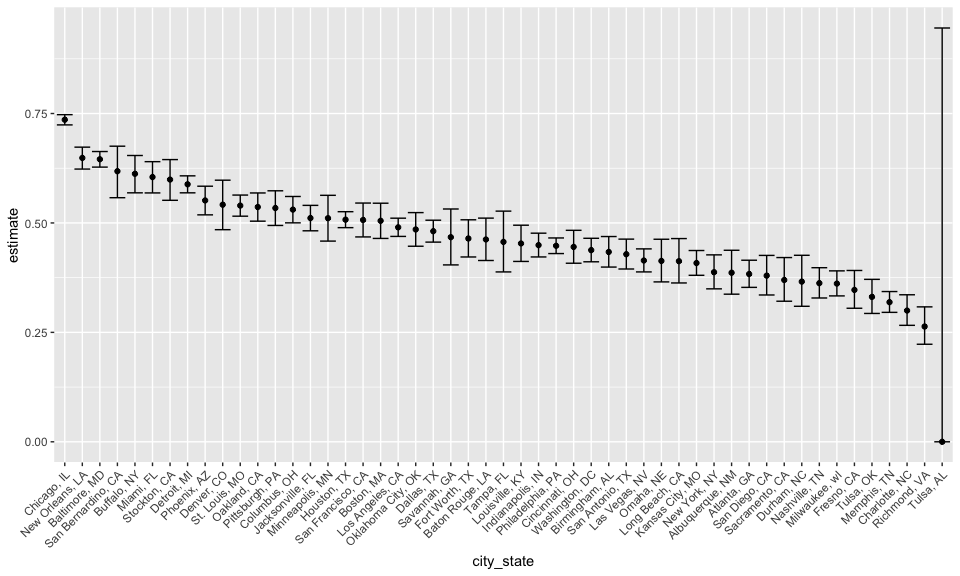
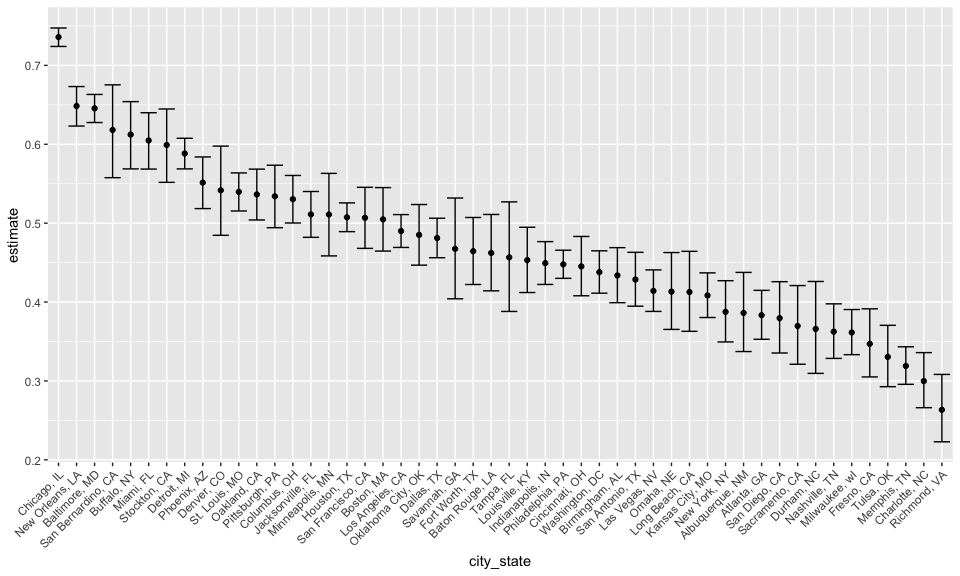
some changes 4

diff --git a/p8105_hw5_xl2836.md b/p8105_hw5_xl2836.md
@@ -93,9 +93,12 @@ Problem Two
 Tidied data
 -----------
 
+First, I create a `city_state` variable by combining `city` and `state`. As there is only one record about "Tulsa, AL", I think it infact happened in "Tulsa, OK" but recorded as "Tulsa, AL" mistakenly, so I changed it to "Tulsa, OK".
+
 ``` r
 homicide_df = read_csv("homicide-data.csv") %>% 
-  mutate(city_state = str_c(city, ", ", state))
+  mutate(city_state = str_c(city, ", ", state)) %>% 
+  mutate(city_state = str_replace(city_state, "Tulsa, AL", "Tulsa, OK"))
 ```
 
     ## Parsed with column specification:
@@ -202,7 +205,6 @@ prop_Baltimore %>%
 ``` r
 city_homicides = left_join(city_total_homicides, city_unsolved_homicides, by = "city_state")
   
-
 city_homicides[is.na(city_homicides)] = 0
 ```
 
@@ -213,18 +215,13 @@ city_prop =
   mutate(parameters = map(parameters, broom::tidy)) %>% 
   unnest() %>% 
   janitor::clean_names() 
-```
 
-    ## Warning in .f(.x[[i]], .y[[i]], ...): Chi-squared approximation may be
-    ## incorrect
-
-``` r
 head(city_prop)
 ```
 
     ## # A tibble: 6 x 11
     ##   city_state total_num unsolved_num estimate statistic   p_value parameter
-    ##   <chr>          <int>        <dbl>    <dbl>     <dbl>     <dbl>     <int>
+    ##   <chr>          <int>        <int>    <dbl>     <dbl>     <dbl>     <int>
     ## 1 Chicago, …      5535         4073    0.736  1231.    1.28e-269         1
     ## 2 Philadelp…      3037         1360    0.448    32.9   9.80e-  9         1
     ## 3 Houston, …      2942         1493    0.507     0.628 4.28e-  1         1
